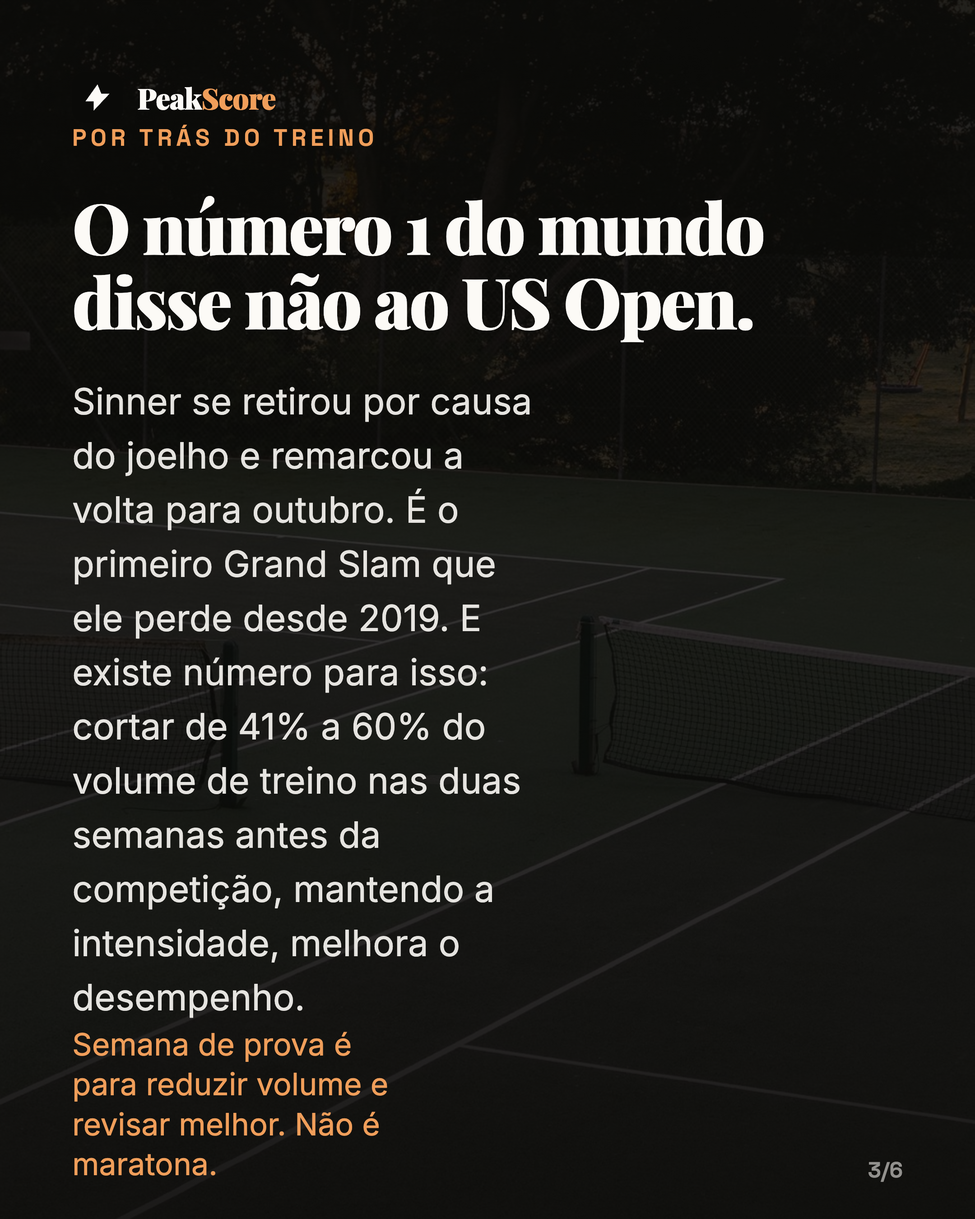
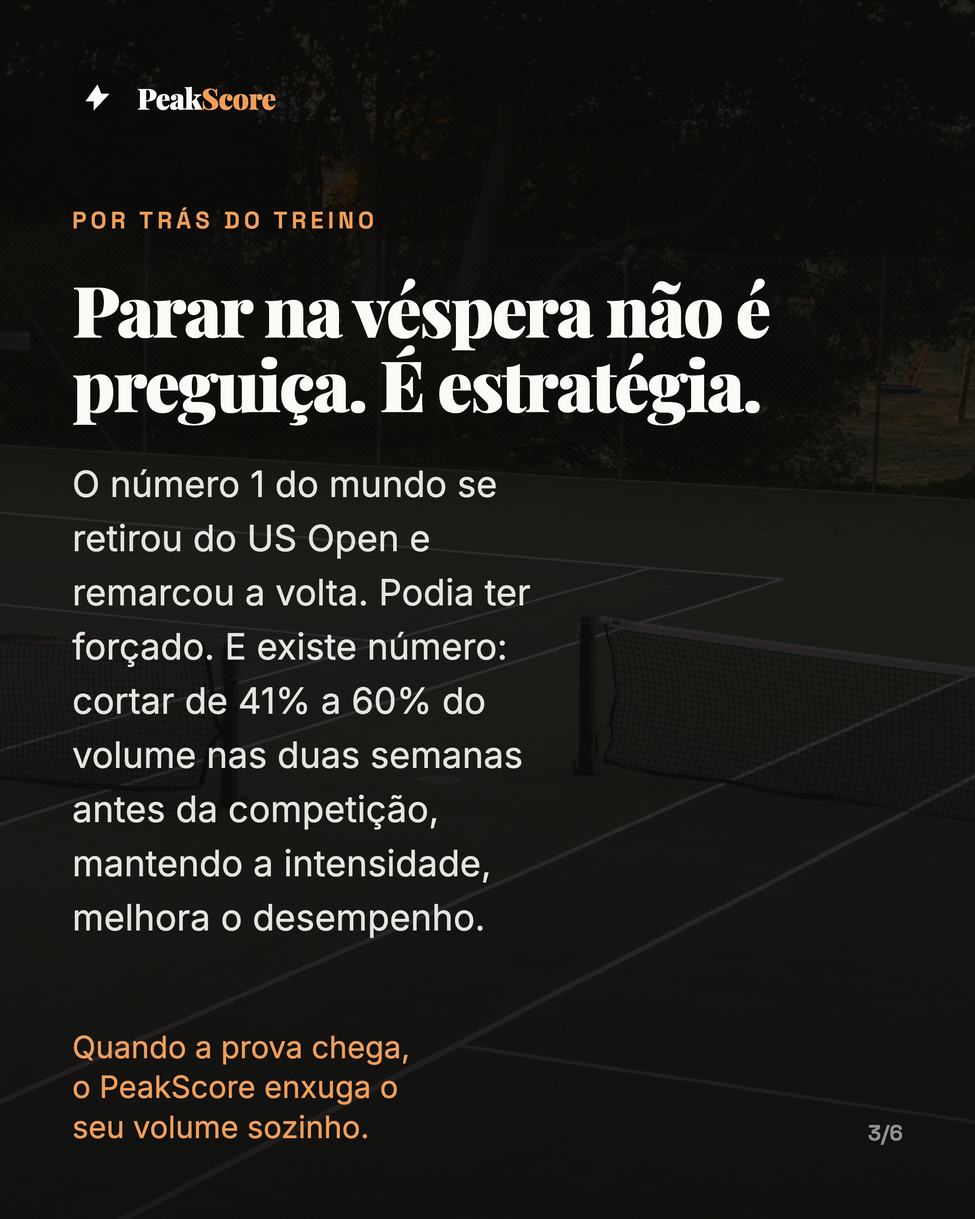
Hierarquia invertida: a manchete e a verdade do aluno, o fato externo vira prova

Changed region(s): [[0.062, 0.1556, 0.8065, 0.9644], [0.062, 0.0933, 0.3722, 0.1244], [0.8995, 0.9022, 0.9306, 0.9644]]

diff --git a/agenda-dados.js b/agenda-dados.js
@@ -111,16 +111,16 @@ Faltam 70 dias para o ENEM e 69 para o SAT.`,
     // ── SÉRIE POR TRÁS DO TREINO · estreia ──────────────────────────
     { d: '2026-08-31', contexto: 'Alcaraz estreia no US Open depois de 4 meses parado',
       post: { dir: 'por-tras', n: 1, tipo: 'post único · série Por trás do treino',
-        titulo: 'Quatro meses parado. E hoje ele volta defendendo o título',
-        legenda: `Alcaraz machucou o punho em abril. Perdeu Roland Garros, perdeu Wimbledon, ficou quatro meses sem competir. Hoje ele estreia no US Open defendendo o título.
+        titulo: 'Você não volta no ritmo de antes. Ninguém volta',
+        legenda: `Você parou de estudar por duas semanas. Agora abre o caderno na segunda decidido a voltar no ritmo de antes, com três matérias e quatro horas. Na terça você já não abriu.
 
-E a parte interessante não é o talento. É como ele voltou: primeiro treinou com o número 123 do mundo, de propósito, para subir a exigência aos poucos. Depois jogou duplas, que é jogo de menos pressão. Só então entrou na chave principal.
+Não é falta de força de vontade. É que voltar direto no nível de antes não funciona para ninguém, nem para quem faz isso profissionalmente.
 
-Ele mesmo disse que a preparação não foi a ideal, e que precisou confiar na equipe.
+Alcaraz ficou quatro meses parado com uma lesão no punho. Hoje ele estreia no US Open defendendo o título. E a volta dele não começou no talento: treinou primeiro com o número 123 do mundo, de propósito, para subir a exigência aos poucos. Depois jogou duplas, que tem menos pressão. Só então entrou na chave principal.
 
-Recomeçar depois de parar não é pagar tudo de uma vez na segunda-feira. É voltar no nível certo e subir. Quem tenta voltar direto no ritmo de antes desiste na terça.
+Se o número 2 do mundo volta pelo degrau de baixo, você também pode.
 
-No PeakScore o plano da semana recomeça recalibrado: blocos curtos de revisão do que você já sabia, antes de matéria nova. O nível 123 primeiro.
+No PeakScore o plano recomeça no seu nível de hoje: blocos curtos, revisão do que você já sabia, e só depois matéria nova. O degrau de baixo primeiro.
 
 Faltam 69 dias para o ENEM e 68 para o SAT de 7 de novembro.`,
         cta: 'comenta <b>VOLTA</b> que eu te mando o link no direct',
@@ -231,10 +231,10 @@ A gente volta amanhã com a semana.`,
 
     { d: '2026-09-08',
       post: { dir: 'setembro-unicos', n: 1, tipo: 'post único · cor cheia',
-        titulo: 'A Champions começa hoje. Sua semana ganha um jogo fixo',
-        legenda: `A Champions começa hoje, e com ela um fato útil: Vini, Raphinha e Estêvão jogam terça e quarta até janeiro.
+        titulo: 'Você já sabe a hora do jogo. E a hora de estudar?',
+        legenda: `Você sabe exatamente que dia e que horas o seu time joga nos próximos quatro meses. Consegue dizer o mesmo do seu estudo?
 
-Semana com âncora fixa é mais fácil de montar. O jogo não muda de lugar, então o resto se encaixa em volta. Aula e prova funcionam igual: são o seu jogo fixo, e o estudo entra nos espaços que sobram de verdade, não nos que você imagina que existem.
+A Champions começa hoje, e com ela um fato útil: Vini, Raphinha e Estêvão jogam terça e quarta até janeiro. Semana com âncora fixa é mais fácil de montar. O jogo não muda de lugar, então o resto se encaixa em volta. Aula e prova funcionam igual: são o seu jogo fixo, e o estudo entra nos espaços que sobram de verdade, não nos que você imagina que existem.
 
 Faltam 61 dias para o ENEM e 60 para o SAT.`,
         cta: 'comenta <b>JOGO</b> que eu te mando o link no direct',
@@ -243,14 +243,14 @@ Faltam 61 dias para o ENEM e 60 para o SAT.`,
 
         { d: '2026-09-09', contexto: 'US Open em andamento · o descanso como estratégia',
       post: { dir: 'por-tras', n: 3, tipo: 'post único · série Por trás do treino',
-        titulo: 'O número 1 do mundo disse não ao US Open',
-        legenda: `Sinner se retirou do US Open por causa do joelho e remarcou a volta para outubro. É o primeiro Grand Slam que ele perde desde 2019, e ele é o número 1 do mundo, campeão de Wimbledon.
+        titulo: 'Parar na véspera não é preguiça. É estratégia',
+        legenda: `Na véspera da prova você abre matéria nova às onze da noite, porque parar parece preguiça. E aí chega na prova com sono e com um assunto que você viu uma vez só.
 
-Podia ter forçado. Não forçou.
+O contrário disso tem nome e tem número.
 
-E existe número para essa decisão: estudos com nadadores, ciclistas e corredores mostram que cortar de 41% a 60% do volume de treino nas duas semanas antes da competição, mantendo a intensidade, melhora o desempenho na hora que importa. Chama taper. A adaptação acontece no descanso, não no esforço.
+Sinner, número 1 do mundo e campeão de Wimbledon, se retirou do US Open por causa do joelho e remarcou a volta para outubro. Podia ter forçado. Não forçou. E estudos com nadadores, ciclistas e corredores mostram por quê: cortar de 41% a 60% do volume de treino nas duas semanas antes da competição, mantendo a intensidade, melhora o desempenho na hora que importa. Chama taper. A adaptação acontece no descanso, não no esforço.
 
-Traduzindo para a sua semana de prova: menos matéria nova, mais revisão do que você já viu, e dormir. Virada de véspera é o contrário exato do que o corpo de um atleta profissional faz antes de competir.
+Semana de prova é isso: menos matéria nova, mais revisão do que você já viu, e dormir.
 
 No PeakScore, quando a prova se aproxima, o plano enxuga o volume sozinho e prioriza revisão. Você não precisa ter a disciplina de parar: o cronograma já para por você.
 
@@ -321,8 +321,10 @@ Faltam 56 dias para o ENEM e 55 para o SAT.`,
 
     { d: '2026-09-14',
       post: { dir: 'setembro-unicos', n: 5, tipo: 'post único · campo escuro',
-        titulo: 'O reality é todo dia. A rotina também',
-        legenda: `Hoje às 22h30 estreia A Fazenda 18. E reality é assim: todo dia tem.
+        titulo: 'Você aguenta acompanhar todo dia. Só não acha que aguenta estudar',
+        legenda: `Você vai acompanhar um programa que passa TODOS os dias, por três meses, sem falhar um. E ainda acha que não tem constância.
+
+Hoje às 22h30 estreia A Fazenda 18. E reality é assim: todo dia tem.
 
 Rotina de estudo funciona igual. Não é o dia épico que decide, é a sequência. A regra da casa: todo dia tem programa, todo dia tem revisão.
 
@@ -364,8 +366,10 @@ Faltam 53 dias para o ENEM e 52 para o SAT.`,
 
         { d: '2026-09-17',
       post: { dir: 'por-tras', n: 4, tipo: 'post único · série Por trás do treino',
-        titulo: 'Dez mil horas é meio mito',
-        legenda: `Você já ouviu que são precisas 10 mil horas para ficar bom em alguma coisa. O estudo original, de 1993, com trinta violinistas, nunca disse isso.
+        titulo: 'Três horas estudando não são três horas melhorando',
+        legenda: `Você senta três horas, relê a matéria que já entende, e levanta com a sensação de ter estudado. Na prova cai justo aquilo que você pulou porque dava trabalho.
+
+Você já ouviu que são precisas 10 mil horas para ficar bom em alguma coisa. O estudo original, de 1993, com trinta violinistas, nunca disse isso.
 
 O que separava os melhores não era o total de horas. Era o TIPO de prática: com alvo específico, com correção, refazendo o pedaço ruim. E as 10 mil eram uma média, não um limiar. O próprio autor chamou o número de arbitrário depois que ele virou regra popular.
 
@@ -384,8 +388,8 @@ Faltam 52 dias para o ENEM e 51 para o SAT de 7 de novembro.`,
 
     { d: '2026-09-18', contexto: 'Último dia de inscrição do SAT de 3 de outubro',
       post: { dir: 'trending', n: 1, tipo: 'post único · cor cheia · serviço',
-        titulo: 'Hoje é dia triplo',
-        legenda: `Hoje três coisas acontecem ao mesmo tempo.
+        titulo: 'Três prazos hoje. Só um não tem segunda chance',
+        legenda: `Hoje você vai lembrar de dois e esquecer o terceiro. E o esquecido é justamente o único que não volta.
 
 Fecha a inscrição do SAT de 3 de outubro. Abre o early access do FC 27, pra quem pagou a edição cara. E o Fonseca estreia na Copa Davis, jogando em casa, no Rio.
 
@@ -566,7 +570,9 @@ O que não tem replay é a semana que vem antes. Faltam 40 dias para o ENEM e 39
     { d: '2026-09-30', contexto: 'Fecha setembro e abre a contagem diária de outubro',
       post: { dir: 'trending', n: 2, tipo: 'post único · campo escuro · marco',
         titulo: 'Quatro dias entre o ENEM e o GTA VI',
-        legenda: `O ENEM acaba dia 15 de novembro. Dia 19, saem NO MESMO DIA o GTA VI e o novo Jogos Vorazes, Amanhecer na Colheita.
+        legenda: `A sua recompensa já tem data marcada. E ela é quatro dias depois da última prova.
+
+O ENEM acaba dia 15 de novembro. Dia 19, saem NO MESMO DIA o GTA VI e o novo Jogos Vorazes, Amanhecer na Colheita.
 
 Quatro dias entre a prova e isso tudo.
 

diff --git a/SISTEMA.md b/SISTEMA.md
@@ -16,13 +16,23 @@ curso. Sem ação no produto, trend é alcance que evapora.
 **A fórmula de toda peça, sem exceção:**
 
 ```
-1. GANCHO      o fato de hoje que o aluno já está comentando
-2. TENSÃO      a dor real que aquilo revela na vida escolar dele
+1. MANCHETE    a VERDADE DO ALUNO, na segunda pessoa. Nunca a notícia.
+2. PROVA       o fato externo com número e fonte, que sustenta a manchete
 3. ENGRENAGEM  a peça do PeakScore que resolve, POR NOME
 4. AÇÃO        uma coisa para fazer hoje (comentar, salvar, abrir, mandar)
 ```
 
-Se a peça não tem passo 3, ela não é nossa: é portal de notícias.
+**A ORDEM É A REGRA, e ela custou uma versão inteira para ser aprendida.**
+A primeira leva da série tinha manchete de notícia ("Quatro meses parado. E
+hoje ele volta defendendo o título") e o PeakScore no rodapé. Lia como
+portal de esporte com marca colada. Quem rola o feed lê o TÍTULO e decide
+ali: se o título fala do atleta, o post é sobre o atleta.
+
+Invertido, funciona: "Você não volta no ritmo de antes. Ninguém volta."
+O Alcaraz continua no post, mas como PROVA de uma verdade que já é do leitor.
+
+Teste rápido antes de aprovar qualquer peça: tape o corpo e leia só a
+manchete. Ela fala da vida de quem lê? Se falar de terceiro, reescreva.
 
 **As engrenagens que existem de verdade** (só estas podem ser citadas):
 plano de hoje · cronograma que se refaz sozinho quando algo muda ·
